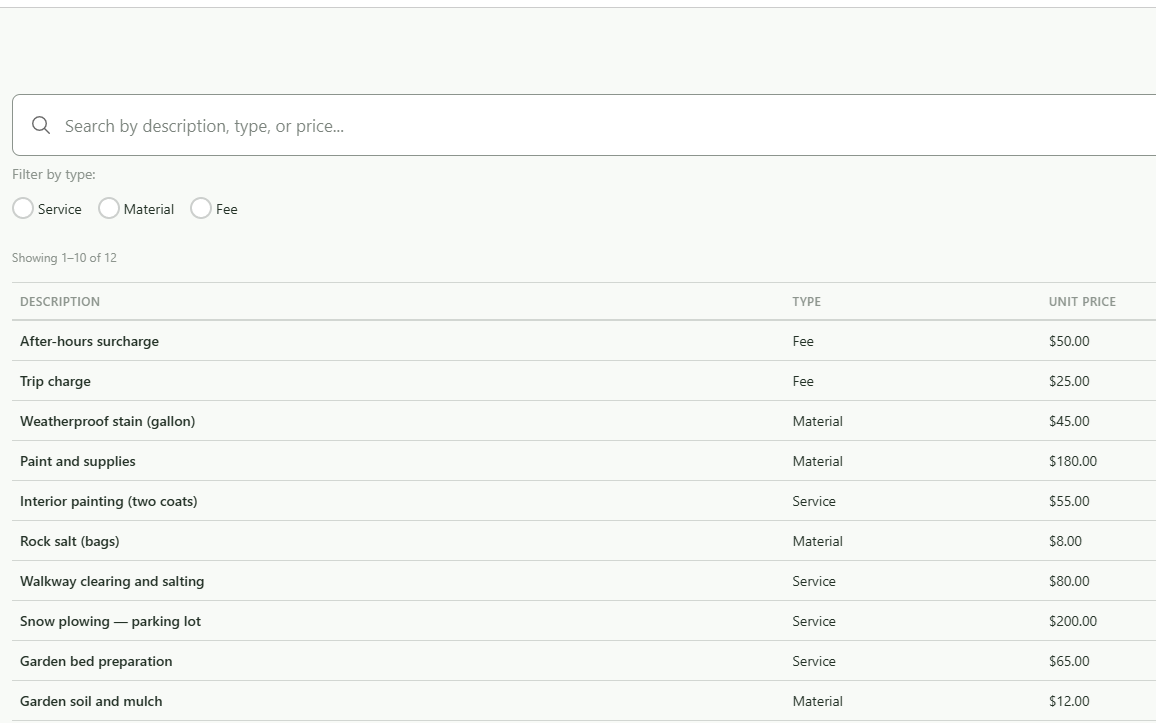
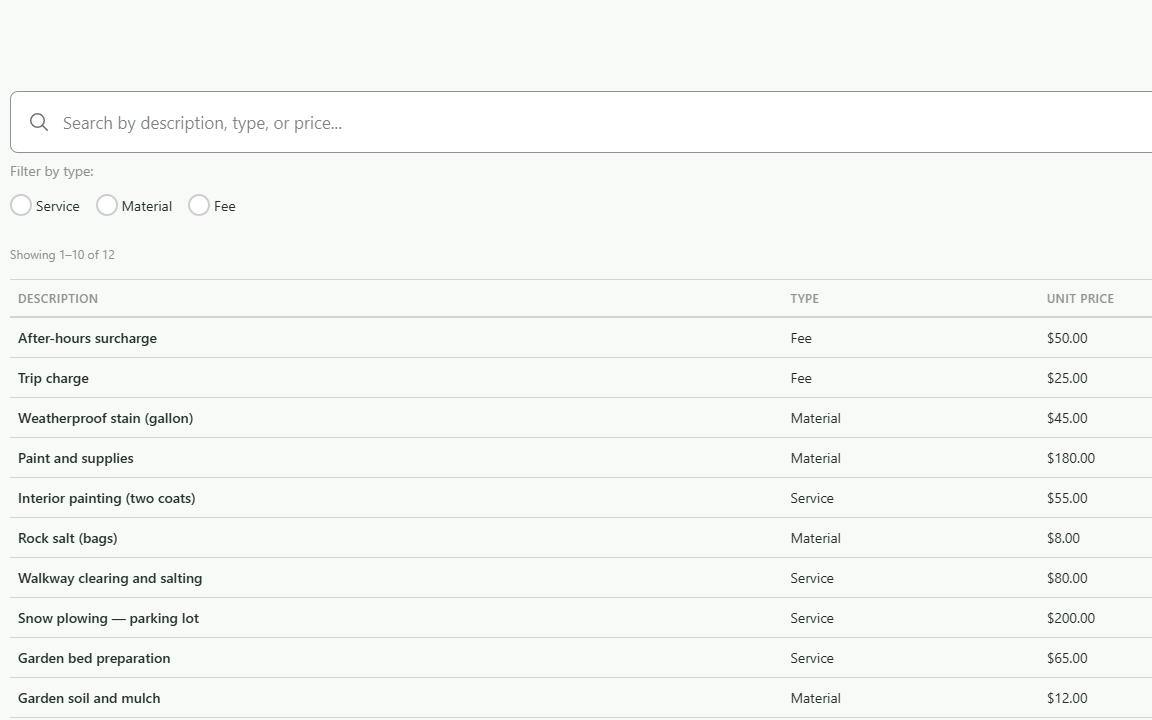
feat(web): refresh the public page cards
Add a fifth landing card for AI-assisted estimating and put the copy above the
screenshot on every card, since the captures begin with clipped UI text that
reads badly as the first thing on a mobile screen.

Screenshots: rebuild ai-estimator.png without the modal's dark scrim, drop the
empty band and grey rule at the top of catalog-management.png, and trim
job-management.png to match. All three are re-padded so the 16:10 frame
letterboxes them evenly and their top edge lines up with the card outline.

Styling: a mild card outline, a 12% primary tint behind the copy block, and an
inner vignette on the frame. The captures share the app's light background, so
without these the screenshots read as more text on the page rather than a framed
picture. Tint and vignette use theme tokens, so dark mode follows without a
second rule.

Copy colours are now shared by both public pages: green card headings and
sub-headings with the standard text colour for body copy and bullets. Ionic
paints the card host #666 by default, which is where the grey body text came
from, so the reset sits on the card rather than on each paragraph. The Early
Access page also drops its standalone "Founding Customer Program" heading; the
first card already introduces the program.

Checked in light and dark with headless Chrome (computed colours and
screenshots); `npm run build` and eslint pass.

diff --git a/web-trade-crm/src/theme/variables.css b/web-trade-crm/src/theme/variables.css
@@ -308,7 +308,8 @@ ion-textarea.control-bordered {
  * feature grid (wider than the reading-capped pages), while the intro card and
  * the CTA cards use the app-wide `.capped-container` (600px). The feature
  * highlights go 2-up on desktop and 1-up below 992px (matching the header's
- * mobile/desktop breakpoint); the CTA cards always stack. */
+ * mobile/desktop breakpoint); an odd number of cards simply leaves the last one
+ * in the left column of a new row, and the CTA cards always stack. */
 .landing-container {
   width: 100%;
   max-width: 1200px;
@@ -330,6 +331,19 @@ ion-textarea.control-bordered {
   margin-bottom: 40px;
 }
 
+/* Every card heading on the page (intro, feature and CTA cards) takes the brand
+   green so the page reads as one family; body copy keeps the standard text
+   colour. Ionic gives the card host a mid-grey default colour, so reset that on
+   the card itself rather than on each paragraph. */
+.landing-container ion-card {
+  color: var(--ion-text-color);
+}
+
+.landing-container ion-card-title,
+.landing-container ion-card-subtitle {
+  color: var(--ion-color-primary);
+}
+
 /* Feature highlights - 1-up on mobile, 2-up from 992px. */
 .landing-features {
   display: grid;
@@ -338,14 +352,56 @@ ion-textarea.control-bordered {
   margin-bottom: 40px;
 }
 
+/* A mild outline on the feature cards only. The product screenshots share the
+   app's light background, so without an edge it is hard to tell where one card
+   starts and the next begins. Same token as `.form-card`. */
+.landing-features ion-card {
+  border: 1px solid var(--ion-color-light-shade);
+}
+
+/* A whisper of brand green behind the copy block (header + body) so each card
+   splits into a tinted copy half and a plain screenshot half. Using the `-rgb`
+   token keeps it in step with the theme, so dark mode gets its own tint of
+   primary green without a second rule. */
+.landing-features ion-card-header,
+.landing-features ion-card-content {
+  background: rgba(var(--ion-color-primary-rgb), 0.12);
+}
+
+/* Hairline between the copy and the screenshot. It belongs on the card content
+   rather than on the frame below: a border on the frame shrinks its content box
+   by 1px, which is enough to letterbox a perfectly 16:10 capture into a sliver
+   down each side. Same line as the card outline. */
+.landing-features ion-card-content {
+  border-bottom: 1px solid var(--ion-color-light-shade);
+}
+
 /* Screenshot frame: a fixed 16:10 box keeps mixed source sizes even, and
    `object-fit: contain` letterboxes rather than cropping a UI capture. */
 .landing-feature__media {
+  position: relative;
   aspect-ratio: 16 / 10;
   background: var(--ion-color-light);
   display: flex;
   align-items: center;
   justify-content: center;
+}
+
+/* Inner vignette. The captures are mostly UI text and start abruptly at the
+   frame edge, so the screenshot reads as more text on the page. A cool, near-
+   shadow ring that fades to nothing by the middle makes it read as a framed
+   picture instead. It has to be a pseudo-element: an inset box-shadow on the
+   frame itself would paint *under* the <img>. Cool blue-grey rather than brand
+   green, so it reads as depth rather than decoration. */
+.landing-feature__media::after {
+  content: "";
+  position: absolute;
+  inset: 0;
+  pointer-events: none;
+  box-shadow:
+    inset 0 0 0 1px rgba(23, 43, 74, 0.16),
+    inset 0 0 10px rgba(23, 43, 74, 0.06),
+    inset 0 0 34px rgba(23, 43, 74, 0.1);
 }
 
 .landing-feature__image {
@@ -356,12 +412,12 @@ ion-textarea.control-bordered {
 }
 
 /* Bold lead sentence under a feature title. iOS renders card headers
-   column-reversed, so it sits below IonCardTitle in the DOM (see the page). */
+   column-reversed, so it sits below IonCardTitle in the DOM (see the page).
+   Colour comes from the shared card-heading rule above. */
 .landing-feature__subtitle {
   text-transform: none;
   letter-spacing: normal;
   font-weight: 600;
-  color: var(--ion-text-color);
 }
 
 /* Calls to action - always stacked (demo above early access), independent of
@@ -383,4 +439,32 @@ ion-textarea.control-bordered {
   .landing-features {
     grid-template-columns: repeat(2, minmax(0, 1fr));
   }
+}
+
+/* ===== EARLY ACCESS PAGE (public beta program) =====
+ * Same card voice as the landing page: brand-green titles and sub-titles, and
+ * the standard text colour for body copy and bullets. The page's own heading was
+ * dropped in favour of the public header, so the container only needs breathing
+ * room under it. */
+.beta-program {
+  margin-top: 32px;
+}
+
+/* Ionic gives the card host a mid-grey default colour; reset it on the card so
+   paragraphs and list items inherit the standard text colour. */
+.beta-program ion-card {
+  color: var(--ion-text-color);
+}
+
+.beta-program ion-card-title,
+.beta-program ion-card-subtitle {
+  color: var(--ion-color-primary);
+}
+
+/* Sub-titles are sentence-case, normal-spacing lead-ins rather than the
+   uppercase Ionic default. */
+.beta-program ion-card-subtitle {
+  text-transform: none;
+  letter-spacing: normal;
+  font-weight: 600;
 }

diff --git a/web-trade-crm/src/pages/LandingPage.tsx b/web-trade-crm/src/pages/LandingPage.tsx
@@ -20,15 +20,22 @@ interface Feature {
   /** Bold lead sentence shown directly under the title. */
   subtitle: string;
   body: string;
-  /** Screenshot shown above the copy. */
+  /** Screenshot shown below the copy in the card. */
   image: string;
 }
 
 /**
  * Feature highlights. Each `image` is a screenshot served from `public/landing/`
- * (captured at 1600 x 1000 px, 16:10 - see the frame in `theme/variables.css`).
+ * captured at 16:10 (see the frame in `theme/variables.css`); the frame
+ * letterboxes anything that is not exactly that ratio.
  */
 const features: Feature[] = [
+  {
+    title: "AI-Assisted Estimating",
+    subtitle: "Turn job descriptions into line items.",
+    body: "Describe the work in your own words and get AI-powered suggestions from your service catalog. Review and edit suggested services and materials before adding them to a job.",
+    image: "/landing/ai-estimator.png",
+  },
   {
     title: "Customer Management",
     subtitle: "Keep customer information close at hand.",
@@ -74,7 +81,7 @@ const CtaCard: React.FC<CtaCardProps> = ({
       <IonCardTitle>{title}</IonCardTitle>
     </IonCardHeader>
     <IonCardContent>
-      <IonText color="medium">
+      <IonText>
         <p style={{ marginTop: 0 }}>{body}</p>
       </IonText>
       <IonButton expand="block" style={{ marginTop: 16 }} onClick={onClick}>
@@ -88,8 +95,9 @@ const CtaCard: React.FC<CtaCardProps> = ({
  * Public landing page (the unauthenticated home, `/`).
  *
  * Layout: a centered logo hero, a centered intro card, a full-width feature
- * grid (2x2 on desktop, 1x4 below 992px), then stacked calls to action. The
- * widths and the grid live in `theme/variables.css` under "LANDING PAGE".
+ * grid (2-up on desktop — the fifth card wraps to its own left-aligned row —
+ * and 1-up below 992px), then stacked calls to action. The widths and the grid
+ * live in `theme/variables.css` under "LANDING PAGE".
  */
 const LandingPage: React.FC = () => {
   useEffect(() => {
@@ -121,7 +129,7 @@ const LandingPage: React.FC = () => {
                 </IonCardTitle>
               </IonCardHeader>
               <IonCardContent>
-                <IonText color="medium">
+                <IonText>
                   <p style={{ marginTop: 0 }}>
                     From managing customer relationships to tracking jobs and
                     preparing invoices, Sprout brings the essentials of running
@@ -136,13 +144,8 @@ const LandingPage: React.FC = () => {
           <div className="landing-features">
             {features.map((feature) => (
               <IonCard key={feature.title}>
-                <div className="landing-feature__media">
-                  <img
-                    className="landing-feature__image"
-                    src={feature.image}
-                    alt={`${feature.title} screenshot`}
-                  />
-                </div>
+                {/* Copy first: the screenshots contain clipped UI text, which
+                    reads badly as the first thing on a mobile screen. */}
                 <IonCardHeader>
                   {/* iOS card headers lay out in reverse DOM order
                       (flex-direction: column-reverse), so the subtitle is
@@ -153,10 +156,17 @@ const LandingPage: React.FC = () => {
                   <IonCardTitle>{feature.title}</IonCardTitle>
                 </IonCardHeader>
                 <IonCardContent>
-                  <IonText color="medium">
+                  <IonText>
                     <p style={{ marginTop: 0 }}>{feature.body}</p>
                   </IonText>
                 </IonCardContent>
+                <div className="landing-feature__media">
+                  <img
+                    className="landing-feature__image"
+                    src={feature.image}
+                    alt={`${feature.title} screenshot`}
+                  />
+                </div>
               </IonCard>
             ))}
           </div>

diff --git a/web-trade-crm/src/pages/BetaProgramPage.tsx b/web-trade-crm/src/pages/BetaProgramPage.tsx
@@ -96,13 +96,7 @@ const BetaProgramPage: React.FC = () => {
     <IonPage>
       <PublicHeader />
       <IonContent className="ion-padding">
-        <div className="capped-container" style={{ marginTop: 32 }}>
-          <div style={{ textAlign: "center", marginBottom: 24 }}>
-            <h1 style={{ fontSize: 24, fontWeight: 700, margin: 0 }}>
-              Founding Customer Program
-            </h1>
-          </div>
-
+        <div className="capped-container beta-program">
           {programCards.map((card) => (
             <IonCard key={card.title} style={{ marginBottom: 24 }}>
               <IonCardHeader>
@@ -110,33 +104,18 @@ const BetaProgramPage: React.FC = () => {
                     (flex-direction: column-reverse), so the subtitle is written
                     first here in order to render *under* the title. */}
                 {card.subtitle && (
-                  <IonCardSubtitle
-                    style={{
-                      textTransform: "none",
-                      letterSpacing: "normal",
-                      fontWeight: 500,
-                      color: "var(--ion-color-primary)",
-                    }}
-                  >
-                    {card.subtitle}
-                  </IonCardSubtitle>
+                  <IonCardSubtitle>{card.subtitle}</IonCardSubtitle>
                 )}
                 <IonCardTitle>{card.title}</IonCardTitle>
               </IonCardHeader>
               <IonCardContent>
                 {card.body && (
-                  <IonText color="medium">
+                  <IonText>
                     <p style={{ marginTop: 0 }}>{card.body}</p>
                   </IonText>
                 )}
                 {card.bullets && (
-                  <ul
-                    style={{
-                      margin: 0,
-                      paddingLeft: 20,
-                      color: "var(--ion-color-medium)",
-                    }}
-                  >
+                  <ul style={{ margin: 0, paddingLeft: 20 }}>
                     {card.bullets.map((bullet) => (
                       <li key={bullet.text} style={{ marginBottom: 8 }}>
                         {bullet.label && <strong>{bullet.label}: </strong>}
